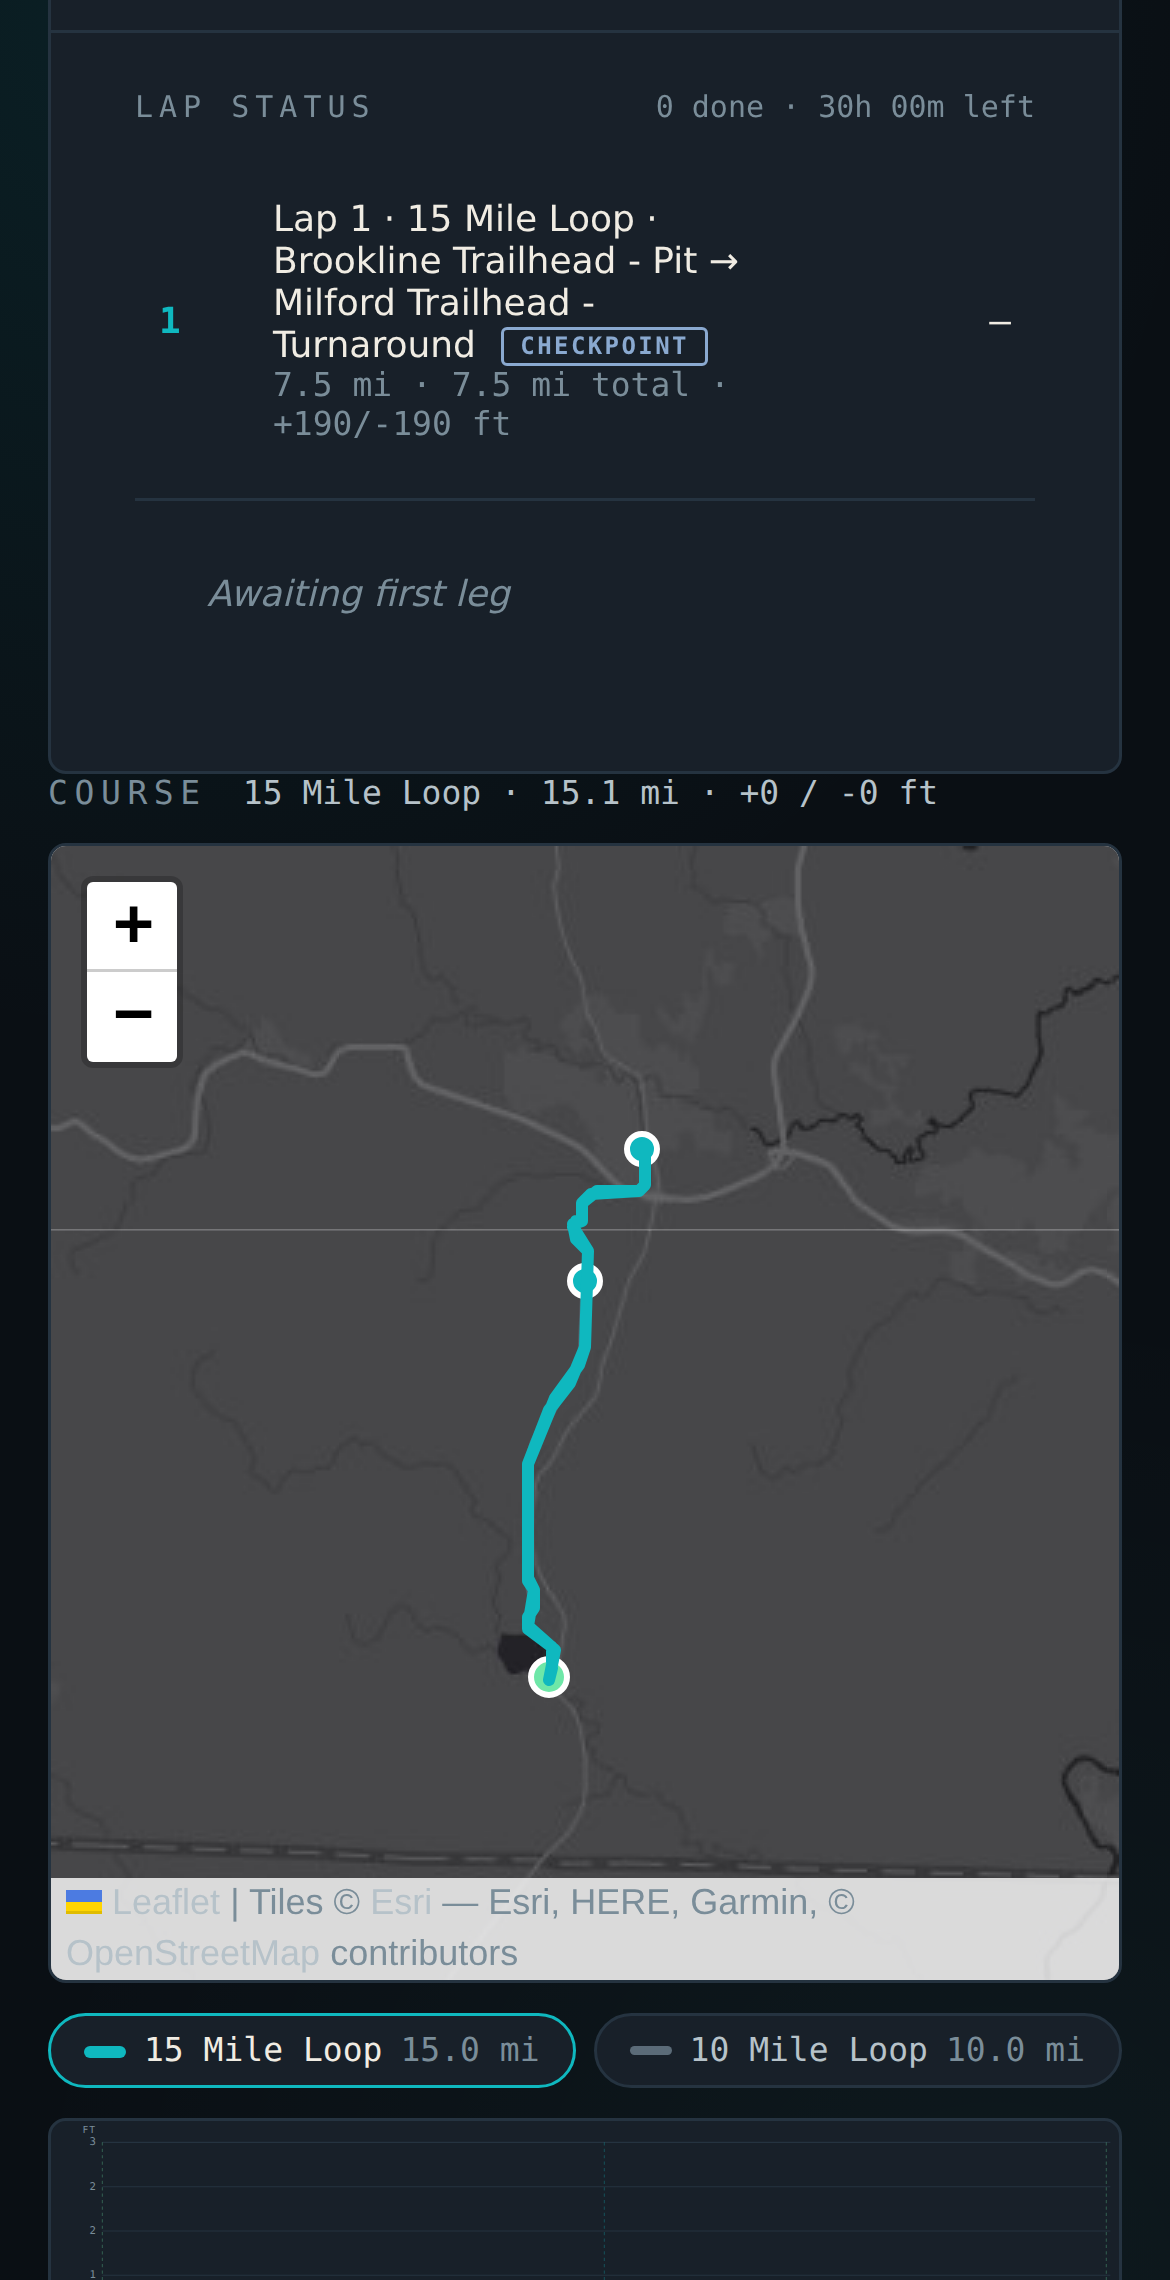
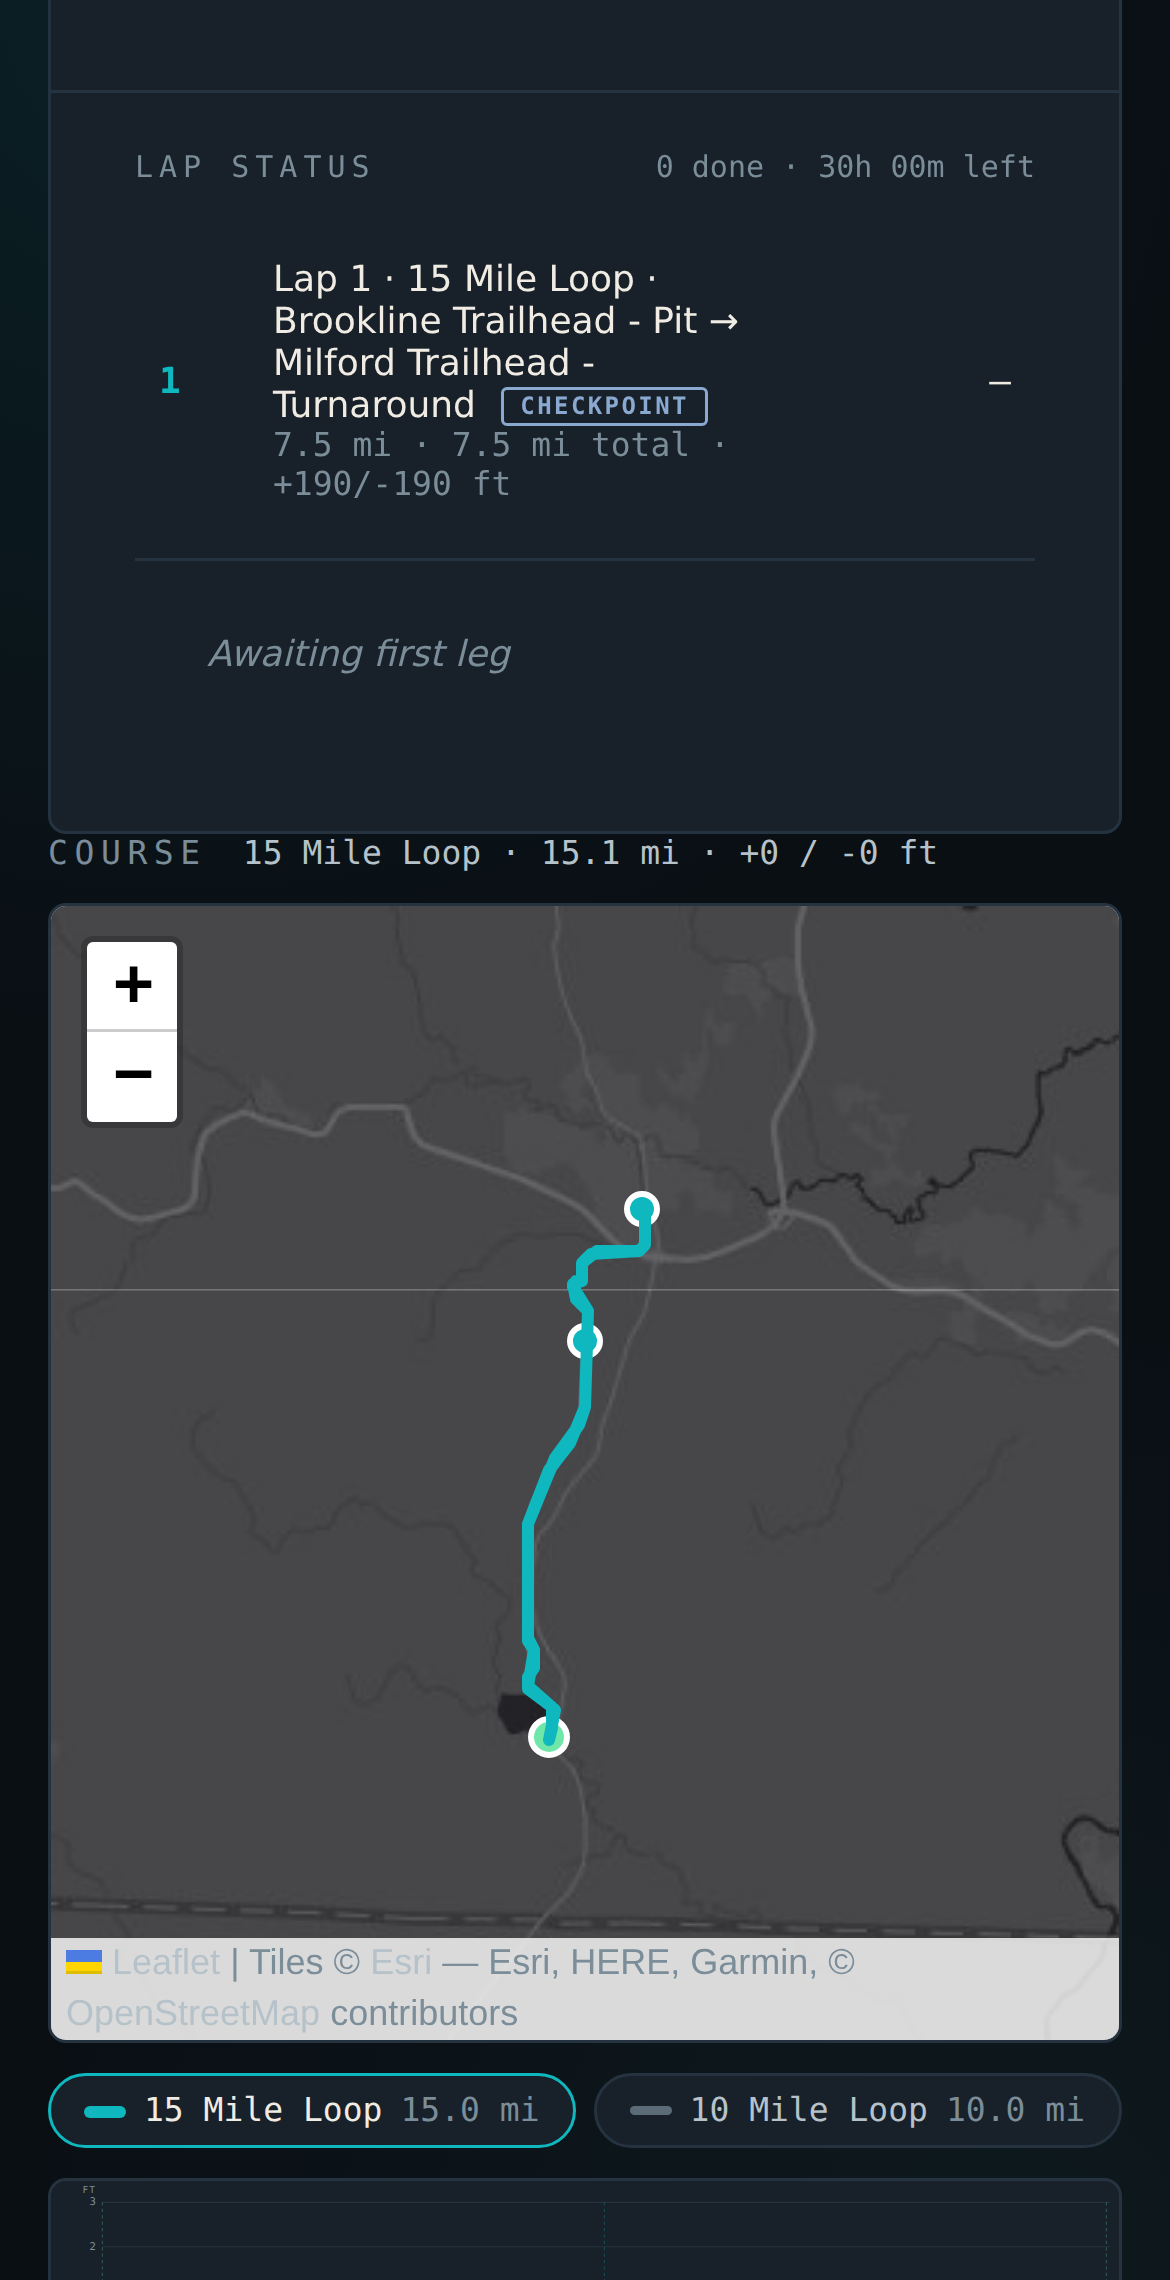
Ghost Train post: back to the phone, with Joe's portrait top right
The phone layout again, with a round bust of Joe cut from his Midstate
Massive photo in the top right, his handle under it and a credit for the
race's photo, since the crop leaves out its mark. The lap card's screenshot
starts a little lower so the phone's notch no longer covers its header.

The poster now hands Instagram the image's URL with its hash from
versions.json on the end, so a re-rendered image is fetched fresh instead
of the copy some Cloudflare edges keep for a day.

Claude-Session: https://claude.ai/code/session_01EWRjYYN5ZDLhgR1pme87tD

diff --git a/brand/social/features.html b/brand/social/features.html
@@ -81,21 +81,13 @@
   .cloud .chip{font-size:30px;padding:16px 30px}
   .cloud .chip.hot{background:var(--signal);color:#062226;border-color:var(--signal)}
 
-  /* A photograph, full bleed, with the words over a shade that leaves the
-     right-hand edge clear: a race photo carries its photographer's or its
-     race's mark there, and it stays readable. */
-  .slide.photo{padding:0}
-  .photo .bg{position:absolute;inset:0;width:100%;height:100%;object-fit:cover;z-index:0}
-  .photo .shade{position:absolute;left:0;right:0;bottom:0;height:62%;z-index:1;
-    background:linear-gradient(180deg,rgba(10,15,20,0) 0%,rgba(10,15,20,.82) 48%,rgba(10,15,20,.9) 100%);
-    -webkit-mask-image:linear-gradient(90deg,#000 0%,#000 55%,transparent 86%);mask-image:linear-gradient(90deg,#000 0%,#000 55%,transparent 86%)}
-  .photo .shade-top{position:absolute;left:0;right:0;top:0;height:22%;z-index:1;
-    background:linear-gradient(180deg,rgba(10,15,20,.7),rgba(10,15,20,0))}
-  .photo .ptop{position:absolute;left:88px;top:80px;z-index:2}
-  .photo .pbottom{position:absolute;left:88px;right:300px;bottom:84px;z-index:2;text-shadow:0 2px 14px rgba(0,0,0,.65)}
-  .photo .pbottom .kick{margin-top:0}
-  .photo .pbottom p.lead{margin-top:20px;max-width:31ch}
-  .photo .chips.row{flex-direction:row;flex-wrap:wrap;margin-top:26px}
+  /* A racer's own portrait, round, in the top right above the phone, for a
+     post about one person's race. */
+  .portrait{position:absolute;right:92px;top:92px;width:300px;z-index:2;text-align:center}
+  .portrait img{display:block;width:300px;height:300px;border-radius:50%;object-fit:cover;
+    border:6px solid var(--signal);box-shadow:0 0 0 10px rgba(15,184,191,.12), 0 0 80px rgba(15,184,191,.35), 0 30px 80px rgba(0,0,0,.55)}
+  .portrait figcaption{margin-top:18px;font-family:var(--mono);font-size:22px;color:var(--ink);letter-spacing:.04em}
+  .portrait figcaption small{display:block;margin-top:6px;font-size:15px;color:var(--mute);letter-spacing:.12em;text-transform:uppercase}
 </style></head><body>
 
 <section class="slide grad glow" id="live-race">
@@ -406,16 +398,17 @@
   <div class="foot">sendoff.run</div>
 </section>
 
-<section class="slide photo" id="ghost-train">
-  <img class="bg" src="photos/joe-rucco-midstate.jpg" alt="">
-  <div class="shade-top"></div><div class="shade"></div>
-  <div class="ptop"><div class="wm"></div></div>
-  <div class="pbottom">
-    <p class="kick">This weekend · Brookline, NH</p>
-    <h1>Follow Joe<br>on the <em>Ghost<br>Train.</em></h1>
-    <p class="lead">30 hours of 15-mile laps, a 10-mile one every seventh. Live on SendOff.</p>
-    <div class="chips row"><span class="chip">Timed race</span><span class="chip">Loops that take turns</span></div>
+<section class="slide grad glow" id="ghost-train">
+  <div class="top">
+    <div class="wm"></div>
+    <p class="kick">This weekend · 30 hours</p>
+    <h1>Follow<br>Joe on the<br><em>Ghost<br>Train.</em></h1>
+    <p class="lead" style="max-width:21ch">30 hours of 15-mile laps, a 10-mile one every seventh, so lap 7 lands on 100.</p>
+    <div class="chips"><span class="chip">Sat 9 AM to Sun 3 PM</span><span class="chip">Timed race</span><span class="chip">Loops that take turns</span></div>
   </div>
+  <figure class="portrait"><img src="photos/joe-rucco-bust.jpg" alt=""><figcaption>@joe_rucco<small>Photo · Midstate Massive</small></figcaption></figure>
+  <div class="phone" style="top:520px"><img src="shots/ghost-train.png" alt="" style="object-fit:cover;object-position:top;aspect-ratio:1170/2110"></div>
+  <div class="foot">sendoff.run</div>
 </section>
 
 <template id="wm-src"><svg role="img" aria-label="SendOff" xmlns="http://www.w3.org/2000/svg" width="3059" height="1066" viewBox="-130 -130 3781.0 1317.6"><title>SendOff</title><g transform="translate(0,700) skewX(-16.0) translate(0,-700)"><g><g transform="translate(2006.0,0)"><circle cx="350.0" cy="350.0" r="294.0" fill="none" stroke="var(--wm-signal, #0FB8BF)" stroke-width="112" /></g></g><circle cx="2370.0" cy="350.0" r="80" fill="var(--wm-signal, #0FB8BF)" /><g transform="translate(0.0,0)"><path d="M 374.0 168 C 374.0 44 56.0 44 56.0 190 C 56.0 322 374.0 368 374.0 506 C 374.0 656 56.0 656 56.0 528" fill="none" stroke="var(--wm-letter, #F0ECE3)" stroke-width="112" stroke-linecap="butt" stroke-linejoin="round" /></g><g transform="translate(446.0,0)"><path d="M 56.0 425.0 L 544.24 425.0" fill="none" stroke="var(--wm-letter, #F0ECE3)" stroke-width="112" stroke-linecap="butt" stroke-linejoin="round" /><path d="M 489.41 469.6 A 219.0 219.0 0 1 0 419.5 589.2" fill="none" stroke="var(--wm-letter, #F0ECE3)" stroke-width="112" stroke-linecap="butt" stroke-linejoin="round" /></g><g transform="translate(1024.0,0)"><path d="M 56.0 700 L 56.0 150" fill="none" stroke="var(--wm-letter, #F0ECE3)" stroke-width="112" stroke-linecap="butt" stroke-linejoin="round" /><path d="M 56.0 340 C 56.0 158 444.0 158 444.0 340 L 444.0 700" fill="none" stroke="var(--wm-letter, #F0ECE3)" stroke-width="112" stroke-linecap="butt" stroke-linejoin="round" /></g><g transform="translate(1552.0,0)"><circle cx="275.0" cy="425.0" r="219.0" fill="none" stroke="var(--wm-letter, #F0ECE3)" stroke-width="112" /><path d="M 494.0 56.0 L 494.0 700" fill="none" stroke="var(--wm-letter, #F0ECE3)" stroke-width="112" stroke-linecap="butt" stroke-linejoin="round" /></g><g transform="translate(2730.0,0)"><path d="M 152.0 700 L 152.0 150 C 152.0 34 264 6 332.0 62" fill="none" stroke="var(--wm-letter, #F0ECE3)" stroke-width="112" stroke-linecap="butt" stroke-linejoin="round" /><path d="M 482.0 700 L 482.0 150 C 482.0 34 594 6 662.0 62" fill="none" stroke="var(--wm-letter, #F0ECE3)" stroke-width="112" stroke-linecap="butt" stroke-linejoin="round" /><path d="M 56.0 208 L 600.0 208" fill="none" stroke="var(--wm-letter, #F0ECE3)" stroke-width="112" stroke-linecap="butt" stroke-linejoin="round" /></g><path d="M -20.0 870.0 L 1224.0 870.0 L 1304.0 818.8 L 1384.0 850.8 L 1474.0 742.0 L 1554.0 793.2 L 1664.0 550.0 L 1754.0 927.6 L 1844.0 729.2 L 1934.0 806.0 L 2024.0 774.0 L 2124.0 844.4 L 2224.0 870.0 L 3468.0 870.0" fill="none" stroke="var(--wm-signal, #0FB8BF)" stroke-width="62.7" stroke-linecap="round" stroke-linejoin="round" /></g></svg></template>
